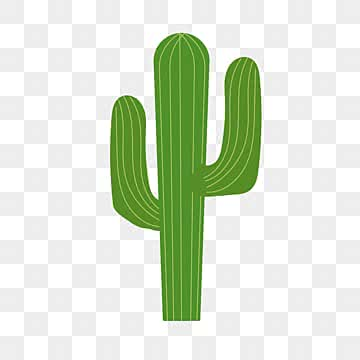
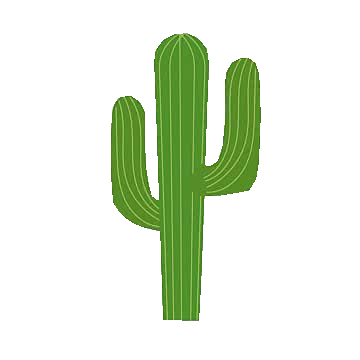
cambio imagenes

diff --git a/src/main/java/edu/fiuba/algo3/vistas/VistaTablero.java b/src/main/java/edu/fiuba/algo3/vistas/VistaTablero.java
@@ -1,7 +1,6 @@
 package edu.fiuba.algo3.vistas;
 
 import edu.fiuba.algo3.controllers.ControladorTablero;
-import edu.fiuba.algo3.modelo.Tablero.Tablero;
 import javafx.scene.Group;
 import javafx.scene.image.Image;
 import javafx.scene.image.ImageView;
@@ -24,6 +23,7 @@ public class VistaTablero {
     private static final int DESPLAZAMIENTOMITAD = 75;
     private static final int DESPLAZAMIENTOTEXTONUMEROY = 94;
     private static final int DESPLAZAMIENTOTEXTOPROBABILIDADY = 104;
+
     private ControladorTablero controlador;
     private int indice;
     List<Polygon> hexagonos;
@@ -43,11 +43,6 @@ public class VistaTablero {
         desplazamientoY = 0;
 
         coordenarHexagonos();
-        setControlador(new ControladorTablero(Tablero.getInstance(), this));
-        controlador.colocarTerrenos();
-        for (Group group : hexagonosConFicha) {
-            tablero.getChildren().add(group);
-        }
     }
 
     public Group getVistaTablero() {
@@ -160,8 +155,8 @@ public class VistaTablero {
         Image img = new Image("cactus.png");
         ImageView view = new ImageView(img);
 
-        view.setFitHeight(40);
-        view.setFitWidth(40);
+        view.setFitHeight(50);
+        view.setFitWidth(50);
 
         int[] posicionMatriz = obtenerColumnaFila(indice, desplazamientoX, desplazamientoY);
         int x =  posicionMatriz[COLUMNA];
@@ -494,6 +489,13 @@ public class VistaTablero {
             img.setX(TAMANIOCOLUMNA * x + 157 - DESPLAZAMIENTOMITAD);
         }
         img.setY(TAMANIOFILA * y + 23);
+    }
+
+    public void crearVista() {
+        controlador.colocarTerrenos();
+        for (Group group : hexagonosConFicha) {
+            tablero.getChildren().add(group);
+        }
     }
 
 }

diff --git a/src/main/java/edu/fiuba/algo3/vistas/VistaJuego.java b/src/main/java/edu/fiuba/algo3/vistas/VistaJuego.java
@@ -1,7 +1,6 @@
 package edu.fiuba.algo3.vistas;
 import edu.fiuba.algo3.modelo.JuegoObservable;
 import edu.fiuba.algo3.controllers.*;
-import edu.fiuba.algo3.vistas.*;
 import edu.fiuba.algo3.observador.Observador;
 import edu.fiuba.algo3.observador.Observable;
 import javafx.scene.layout.StackPane;
@@ -81,8 +80,10 @@ public class VistaJuego extends BorderPane implements Observador {
         
 
         //jugador
-        Circle avatarJugador = new Circle(20, Color.BLACK);
-        avatarJugador.setStroke(Color.WHITE);
+        Image img = new Image("jugador.png");
+        ImageView avatarJugador = new ImageView(img);
+        avatarJugador.setFitHeight(40);
+        avatarJugador.setFitWidth(40);
         jugadorInferiorLabel = new Label(modelo.juego().jugadorActual().nombre()); 
         jugadorInferiorLabel.setStyle("-fx-text-fill: white; -fx-font-weight: bold;");
         VBox panelJugador = new VBox(2, avatarJugador, jugadorInferiorLabel);

diff --git a/src/main/java/edu/fiuba/algo3/vistas/App.java b/src/main/java/edu/fiuba/algo3/vistas/App.java
@@ -1,8 +1,10 @@
 package edu.fiuba.algo3.vistas;
 
+import edu.fiuba.algo3.controllers.ControladorTablero;
 import edu.fiuba.algo3.modelo.Juego;
 import edu.fiuba.algo3.modelo.JuegoObservable;
 import edu.fiuba.algo3.modelo.Jugador;
+import edu.fiuba.algo3.modelo.Tablero.Tablero;
 import javafx.application.Application;
 import javafx.scene.Group;
 import javafx.scene.Scene;
@@ -29,6 +31,11 @@ public class App extends Application {
         VistaJuego vistaJuego = new VistaJuego(modeloObservable);
 
         VistaTablero vistaTablero = new VistaTablero();
+        Tablero tablero = Tablero.getInstance();
+        ControladorTablero controladorTablero = new ControladorTablero(tablero, vistaTablero);
+        vistaTablero.setControlador(controladorTablero);
+        vistaTablero.crearVista();
+
         Group groupTablero = vistaTablero.getVistaTablero();
         groupTablero.setTranslateY(-50);
 
